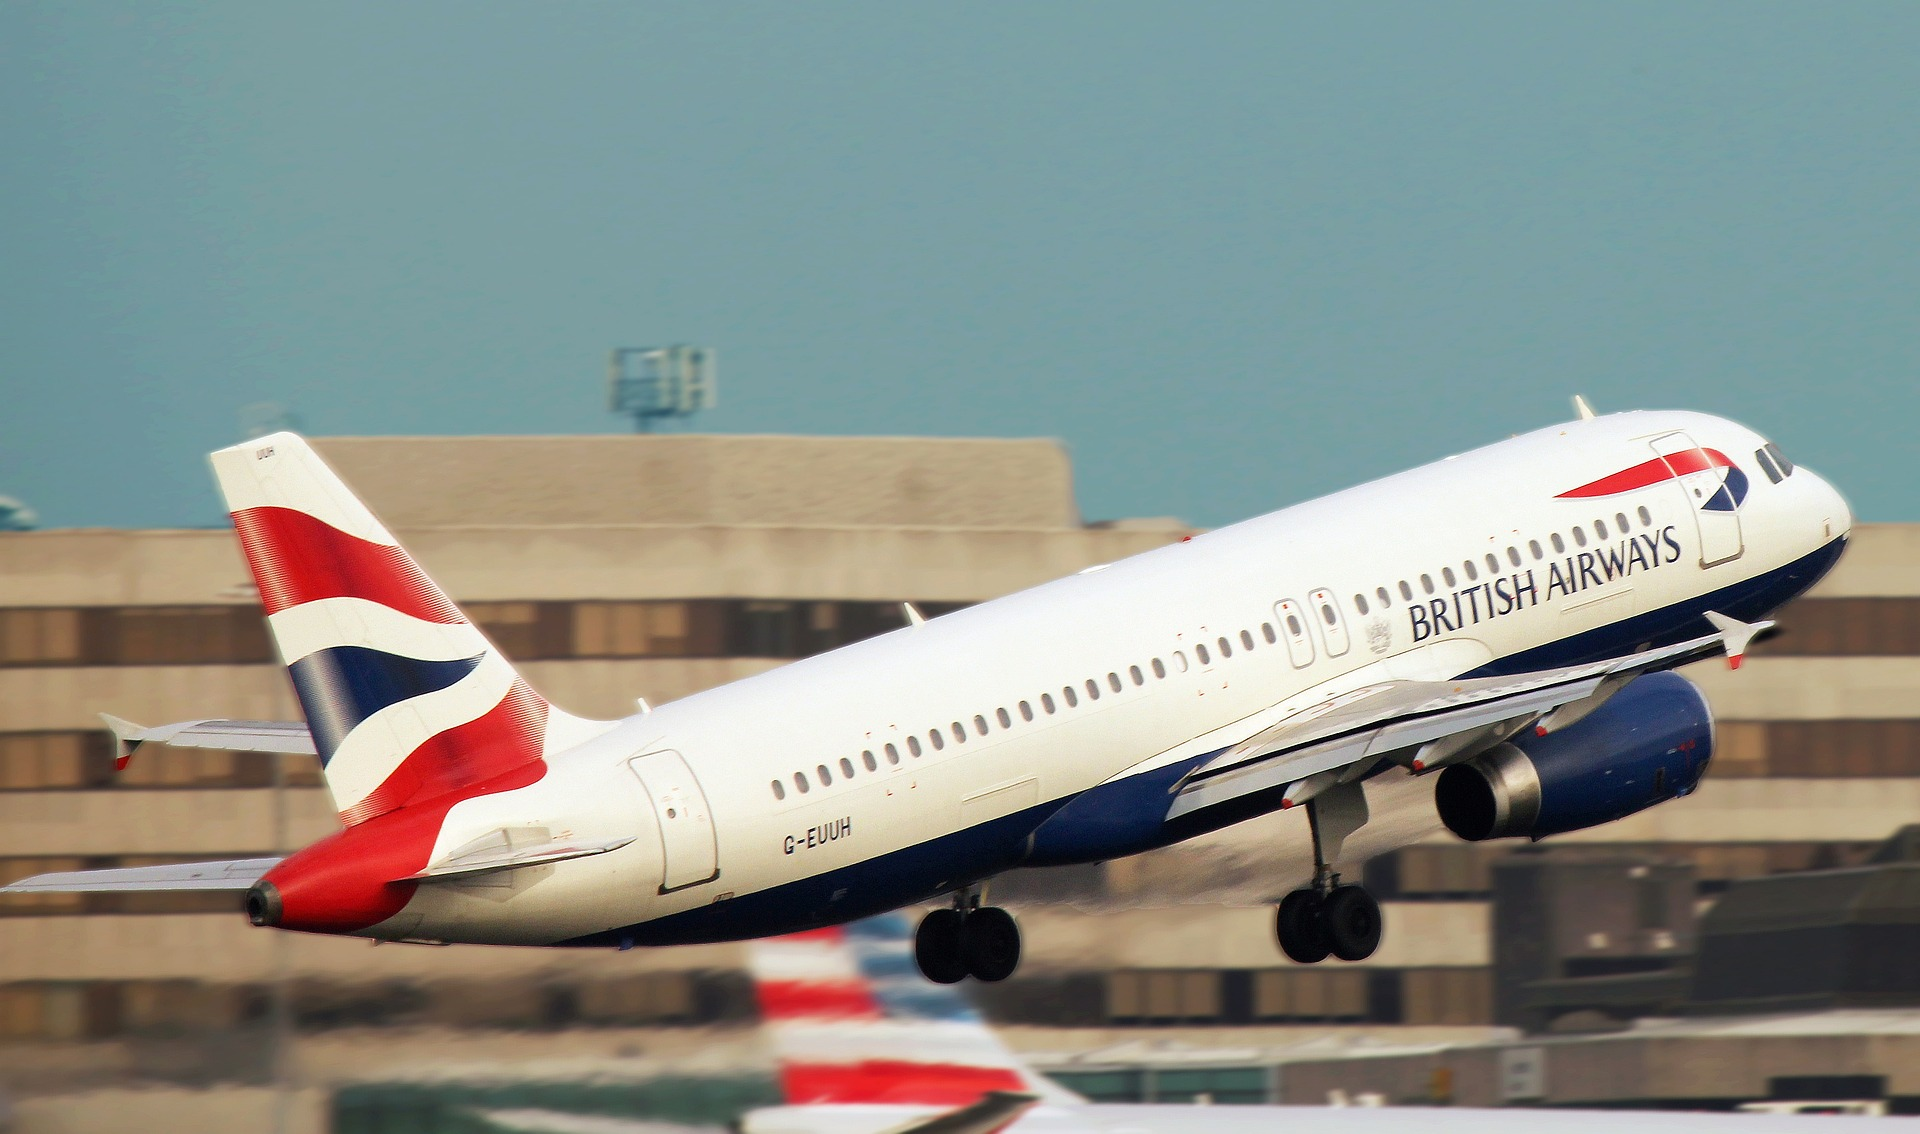
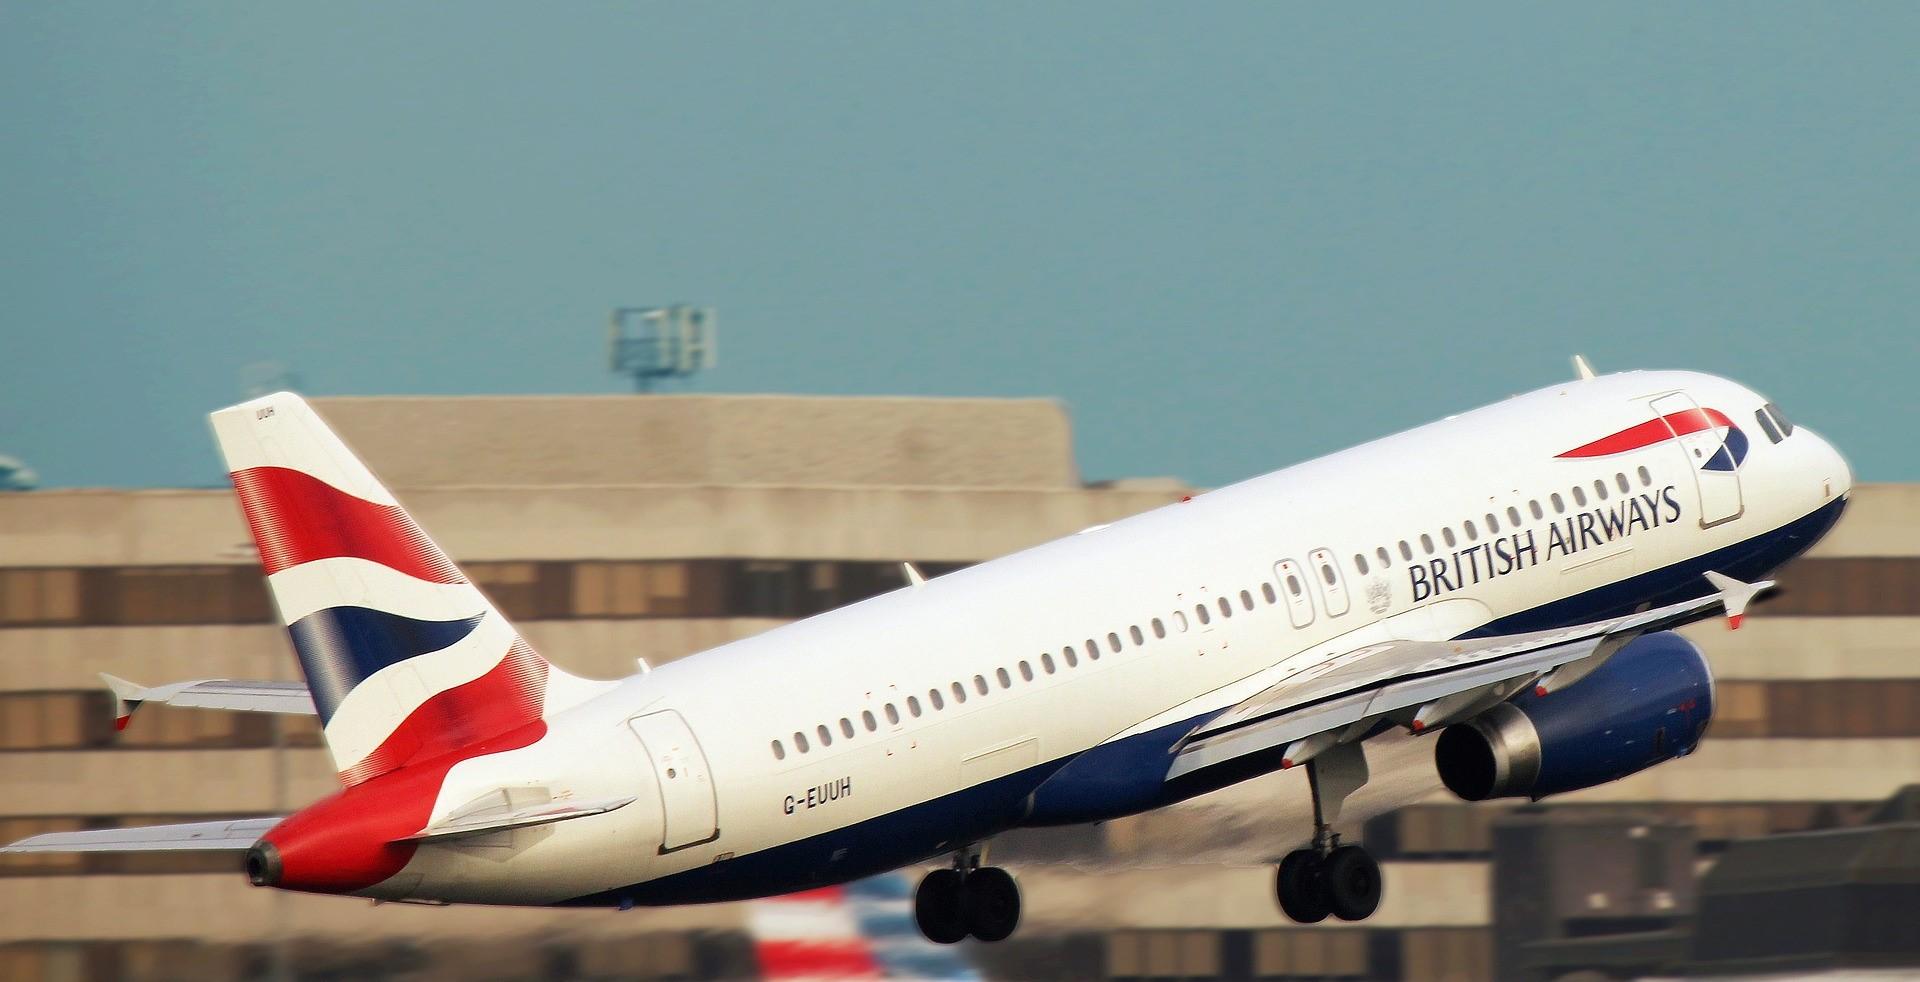
adding animation

diff --git a/index.html b/index.html
@@ -14,6 +14,9 @@
     <link rel="stylesheet" href="https://cdnjs.cloudflare.com/ajax/libs/font-awesome/6.4.0/css/all.min.css"
         integrity="sha512-iecdLmaskl7CVkqkXNQ/ZH/XLlvWZOJyj7Yy7tcenmpD1ypASozpmT/E0iPtmFIB46ZmdtAc9eNBvH0H/ZpiBw=="
         crossorigin="anonymous" referrerpolicy="no-referrer" />
+
+    <link href="https://unpkg.com/aos@2.3.1/dist/aos.css" rel="stylesheet">
+
 </head>
 
 <body>
@@ -45,7 +48,7 @@
             <button type="button" data-bs-target="#carouselExampleDark" data-bs-slide-to="2"
                 aria-label="Slide 3"></button>
         </div>
-        <div class="carousel-inner" style="height: 100vh;">
+        <div class="carousel-inner">
             <div class="carousel-item active" data-bs-interval="10000">
                 <img src="./images/passenger-plane-g80467bbea_1920.jpg" class="w-100" alt="...">
                 <div
@@ -94,7 +97,9 @@
                 <div class="col-md-6 mt-5">
                     <div class="row">
                         <div class="col-md-1"></div>
-                        <div class="col-md-10">
+                        <div class="col-md-10" data-aos="fade-down"
+                        data-aos-easing="linear"
+                        data-aos-duration="1500">
                             <h5 class="text-warning">GET TO KNOW US</h5>
                             <h1 class="fw-bold mb-4 text-danger">Our jetly save your time and give you comfort in
                                 flights</h1>
@@ -113,7 +118,9 @@
                         <div class="col-md-1"></div>
                     </div>
                 </div>
-                <div class="col-md-6 mt-5 ">
+                <div class="col-md-6 mt-5 "data-aos="flip-left"
+                data-aos-easing="ease-out-cubic"
+                data-aos-duration="2000">
                     <img src="./images/Travel Service Airlines stewardess_3.jpg" class="img-fluid rounded-pill" alt="">
                 </div>
             </div>
@@ -123,17 +130,17 @@
     <div class="hero mt-5">
         <div class="container">
             <div class="row">
-                <div class="col-md-4 mt-5 bg-danger p-2 text-light">
+                <div class="col-md-4 mt-5 bg-danger p-2 text-light" data-aos="zoom-in-down" data-aos-duration="2000">
                     <p>COLLECT MILES</p>
                     <h4>GET DISCOUNT NEXT FLIGHTS WITH OUR CARDS</h4>
                     <p>Lorem ipsum dolor sit amet consectetur, adipisicing elit. Ut sapiente illum ipsa dolore laborum,
                         inventore veritatis! Repellendus assumenda sunt tenetur temporibus</p>
                     <button type="button" class="btn btn-light m-2 ps-4 pe-4 rounded-pill py-2">DISCOVER MORE</button>
                 </div>
-                <div class="col-md-4 mt-5">
+                <div class="col-md-4 mt-5"  data-aos="zoom-in-down" data-aos-duration="2000">
                     <img src="./images/th (1).jpg" alt="" class="img-fluid">
                 </div>
-                <div class="col-md-4 mt-5">
+                <div class="col-md-4 mt-5" data-aos="zoom-in-down" data-aos-duration="2000">
                     <img src="./images/th(2).jpg" alt="" class="img-fluid">
                 </div>
             </div>
@@ -204,7 +211,8 @@
                 <p>WHAT WE’RE OFFERING </p>
                 <h1 class="text-danger fw-bold">Select the service</h1>
                 <h1 class="text-danger fw-bold">according to your work</h1>
-                <div class="col-md-3 mt-5">
+                <div class="col-md-3 mt-5" data-aos="fade-up"
+                data-aos-anchor-placement="bottom-bottom"data-aos-duration="1000">
                     <div class="card shadow-lg p-3 mb-5 bg-body rounded" style="width: 18rem;">
                         <img src="./images/services-1-1.jpg" class="card-img-top" alt="...">
                         <div class="card-body">
@@ -214,7 +222,8 @@
                         </div>
                     </div>
                 </div>
-                <div class="col-md-3 mt-5">
+                <div class="col-md-3 mt-5"data-aos="fade-up"
+                data-aos-anchor-placement="bottom-bottom" data-aos-duration="1500">
                     <div class="card shadow-lg p-3 mb-5 bg-body rounded" style="width: 18rem;">
                         <img src="./images/services-1-2-1.jpg" class="card-img-top" alt="...">
                         <div class="card-body">
@@ -224,7 +233,8 @@
                         </div>
                     </div>
                 </div>
-                <div class="col-md-3 mt-5">
+                <div class="col-md-3 mt-5"data-aos="fade-up"
+                data-aos-anchor-placement="bottom-bottom" data-aos-duration="1700">
                     <div class="card shadow-lg p-3 mb-5 bg-body rounded" style="width: 18rem;">
                         <img src="./images/services-1-3-1.jpg" class="card-img-top" alt="...">
                         <div class="card-body">
@@ -234,7 +244,9 @@
                         </div>
                     </div>
                 </div>
-                <div class="col-md-3 mt-5">
+                <div class="col-md-3 mt-5"data-aos="fade-up"
+                data-aos-anchor-placement="bottom-bottom"
+                data-aos-duration="2000">
                     <div class="card shadow-lg p-3 mb-5 bg-body rounded" style="width: 18rem;">
                         <img src="./images/services-1-4-1.jpg" class="card-img-top" alt="...">
                         <div class="card-body">
@@ -253,25 +265,25 @@
         <div class="container">
             <div class="row">
                 <div class="col-md-3"></div>
-                <div class="col-md-6 d-md-flex mt-5 bg-danger p-2 ps-5 justify-content-around  text-light fw-bold">
-                   <div class="row ">
-                    <div class="col-md-3 ">
-                        <h1>456</h1>
-                        <p>Professional pilots</p>
+                <div class="col-md-6 d-md-flex mt-5 bg-danger p-2 ps-5 justify-content-around  text-light fw-bold ">
+                    <div class="row ">
+                        <div class="col-md-3 ">
+                            <h1>456</h1>
+                            <p>Professional pilots</p>
+                        </div>
+                        <div class="col-md-3">
+                            <h1>166</h1>
+                            <p>Jet airplanes</p>
+                        </div>
+                        <div class="col-md-3">
+                            <h1>138</h1>
+                            <p>Directions</p>
+                        </div>
+                        <div class="col-md-3">
+                            <h1>280</h1>
+                            <p>World airports</p>
+                        </div>
                     </div>
-                    <div class="col-md-3">
-                        <h1>166</h1>
-                        <p>Jet airplanes</p>
-                    </div>
-                    <div class="col-md-3">
-                        <h1>138</h1>
-                        <p>Directions</p>
-                    </div>
-                    <div class="col-md-3">
-                        <h1>280</h1>
-                        <p>World airports</p>
-                    </div>
-                   </div>
                 </div>
                 <div class="col-md-3"></div>
             </div>
@@ -303,6 +315,11 @@
     <script src="https://cdn.jsdelivr.net/npm/bootstrap@5.0.2/dist/js/bootstrap.bundle.min.js"
         integrity="sha384-MrcW6ZMFYlzcLA8Nl+NtUVF0sA7MsXsP1UyJoMp4YLEuNSfAP+JcXn/tWtIaxVXM"
         crossorigin="anonymous"></script>
+    <script src="https://unpkg.com/aos@2.3.1/dist/aos.js"></script>
+
+    <script>
+        AOS.init();
+    </script>
 
 
 </body>

diff --git a/style.css b/style.css
@@ -9,8 +9,9 @@ nav{
     font-style: italic;
 }
 
-@media screen and (max-width:768) {
+@media screen and (max-width:768px) {
     .space{
         padding-top: 2rem !important;
     }
+    
 }
